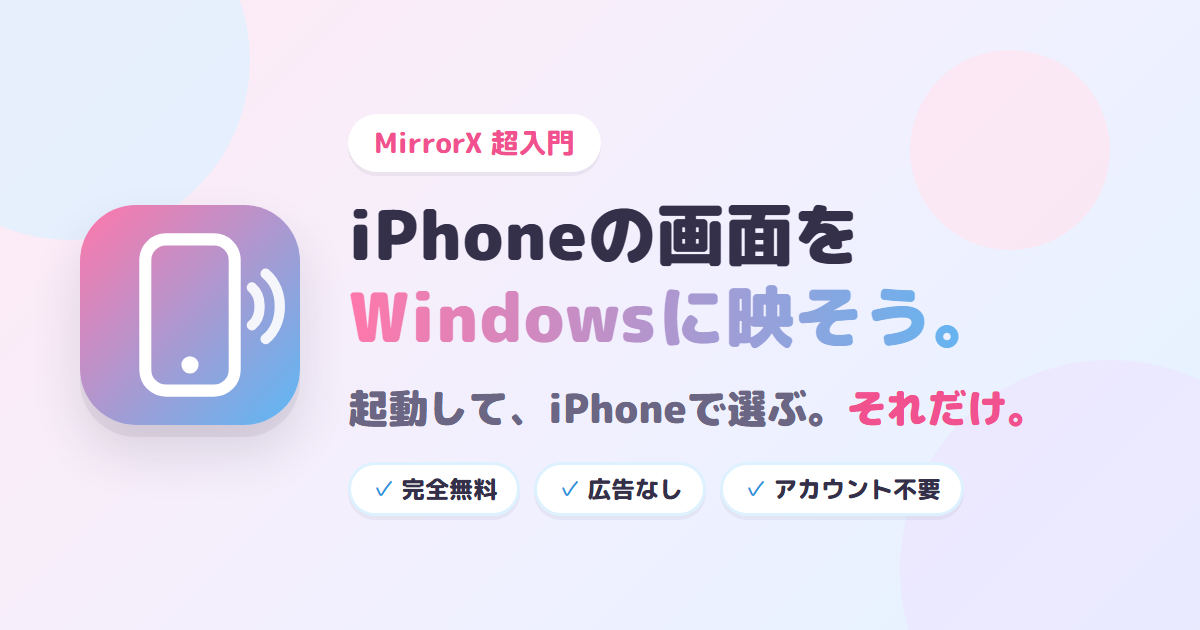
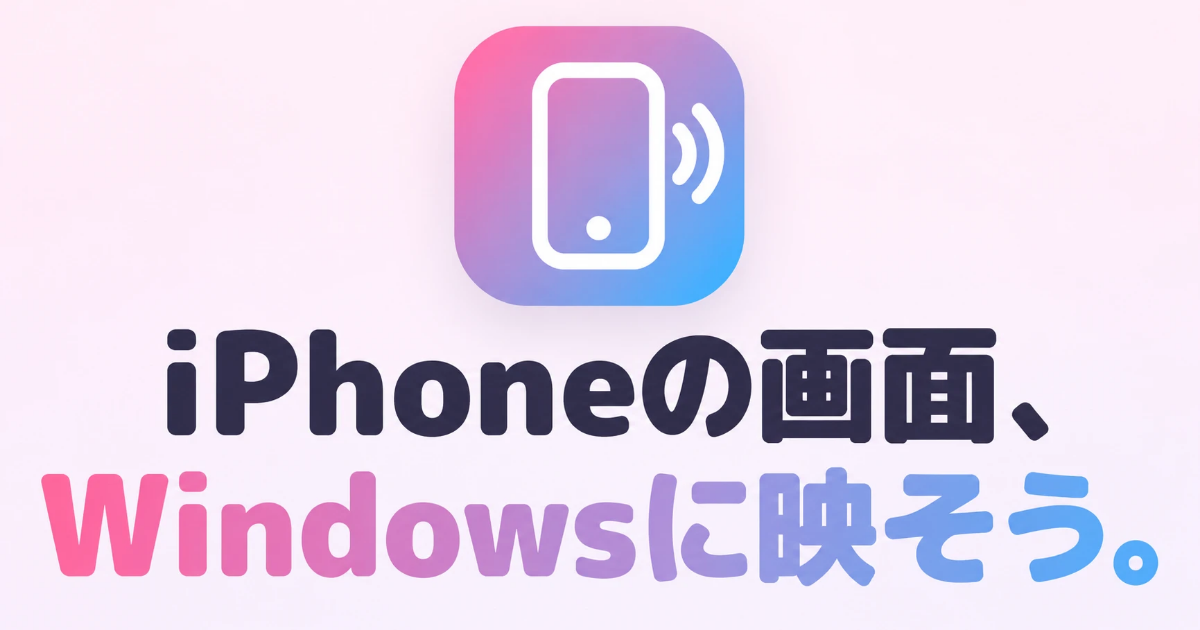
OGP: use the provided hero image (1200x630), cache-bust v=2

diff --git a/public/index.html b/public/index.html
@@ -14,13 +14,13 @@
 <meta property="og:url" content="https://mirrorx.jp-x.workers.dev/">
 <meta property="og:title" content="MirrorX 超入門｜iPhoneの画面、Windowsに映そう">
 <meta property="og:description" content="起動して、iPhoneで選ぶ。それだけ。完全無料・広告なし・アカウント不要・クラウド不要。">
-<meta property="og:image" content="https://mirrorx.jp-x.workers.dev/images/og-image.png">
+<meta property="og:image" content="https://mirrorx.jp-x.workers.dev/images/og-image.png?v=2">
 <meta property="og:image:width" content="1200">
 <meta property="og:image:height" content="630">
 <meta name="twitter:card" content="summary_large_image">
 <meta name="twitter:title" content="MirrorX 超入門｜iPhoneの画面、Windowsに映そう">
 <meta name="twitter:description" content="起動して、iPhoneで選ぶ。それだけ。完全無料・広告なし・アカウント不要・クラウド不要。">
-<meta name="twitter:image" content="https://mirrorx.jp-x.workers.dev/images/og-image.png">
+<meta name="twitter:image" content="https://mirrorx.jp-x.workers.dev/images/og-image.png?v=2">
 
 <link rel="icon" href="images/logo.svg" type="image/svg+xml">
 <link rel="icon" href="images/favicon-32.png" sizes="32x32" type="image/png">
